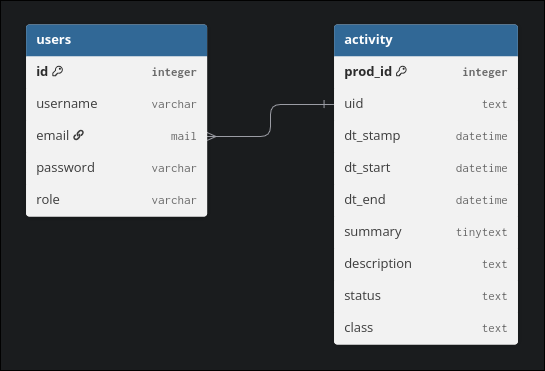
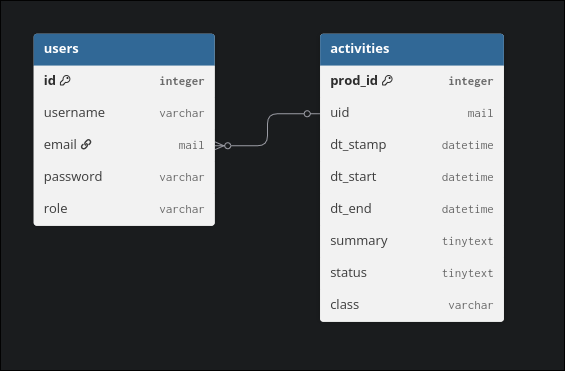
Updated 'Docs/functioneel-ontwerp.md'.

diff --git a/Docs/technisch-ontwerp.md b/Docs/technisch-ontwerp.md
@@ -5,12 +5,32 @@ Datum: 19-08-2026
 
 ## Gebruikte technieken 
 Programmeertalen: PHP / HTML / CSS / JavaScript
+
 Frameworks: Laravel / Vue
+
 Database: SQLite
 
 
-## Waar wordt de data opgeslagen?
-De data wordt opgeslagen in een SQLite database.
+## Datamodel
+De data wordt opgeslagen in een SQLite database, hieronder zie je de tabel namen.
+De tabel namen zijn ook geinspireed op de ICS template (zie: 'Link voor ICS template') 
+
+Kolom: **users**
+- id (primary / int)
+- username (varchar)
+- email (mail *or* varchar)
+- password (varchar) // Hashed
+- role (varchar) 
+
+Kolom **activities**
+- prod_id (primary / int)
+- uid (mail *or* varchar) -> users.email 
+- dt_stamp (datetime) // Created Time
+- dt_start (datetime) // Start Time
+- dt_end (datetime) // End Time
+- summary (tinytext) // Short Summary 
+- status (tinytext) // Active | Inactive
+- class (varchar)
 
 ![image](./doc-images/database-template.png)
 
@@ -42,3 +62,6 @@ Dit project zou worden gemaakt met de framework Laravel met de starterkit "Vue".
 
 ## Randvoorwaarden voor koppeling aan de bestaande systemen
 Wij gaan github gebruiken als koppelmethode/versiebeheer voor dit project, hier zullen meerdere branches met meerdere features gemaakt worden zodat dit makkelijk opgehaald kan worden. En een goed beeld hebben van de vorige commits/versies
+
+## User Flow Diagram 
+![image](./doc-images/user-flow-diagram.png
